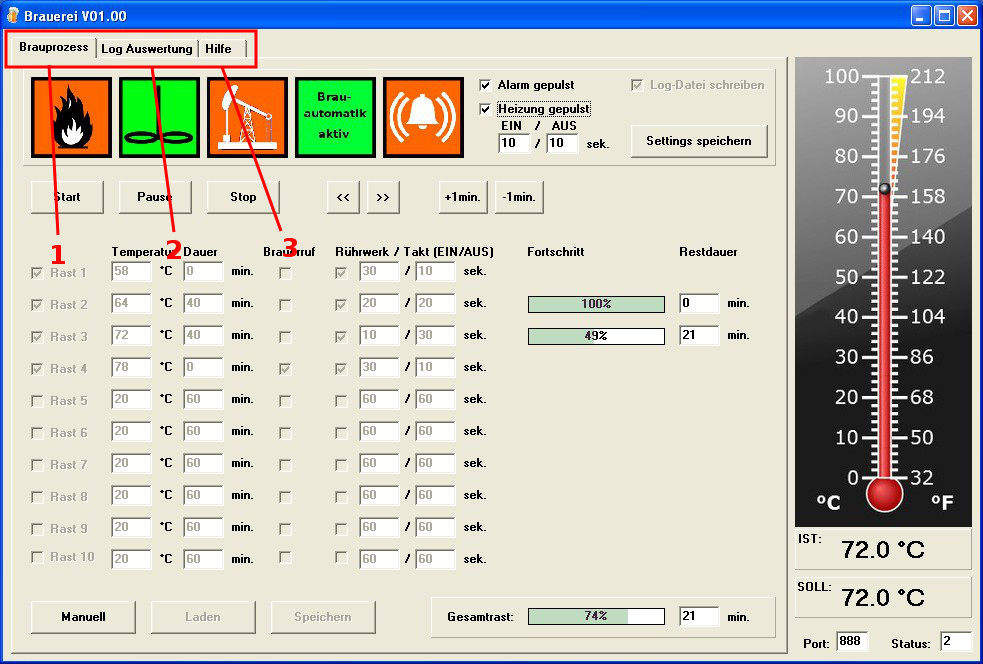
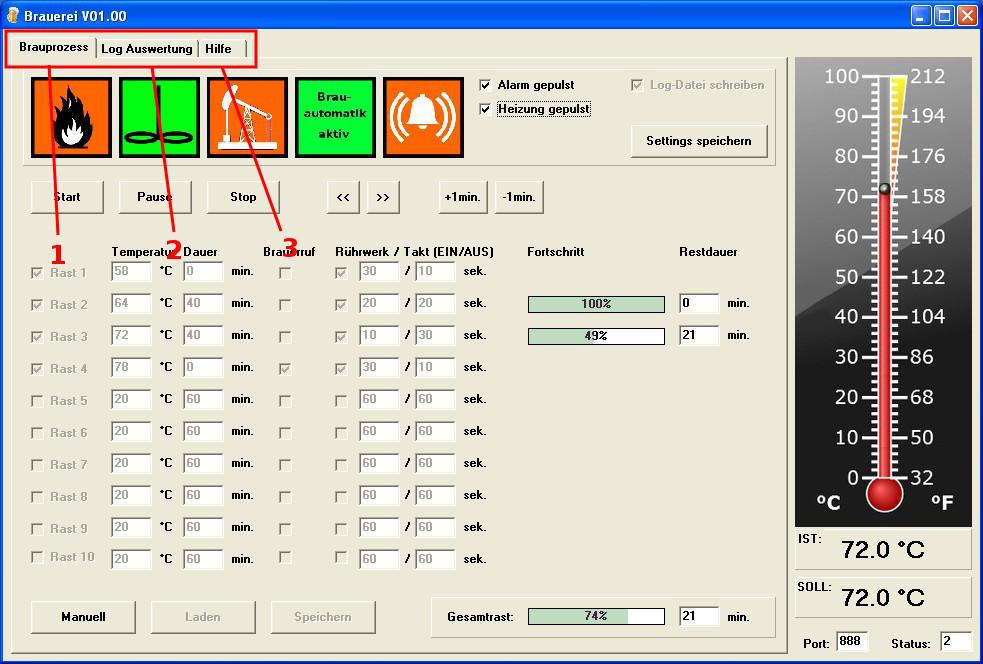
Help aktuallisiert

diff --git a/Brauerei/Help/Log.html b/Brauerei/Help/Log.html
@@ -7,7 +7,9 @@
 	<META NAME="AUTHOR" CONTENT="Andreas Wehrle">
 	<META NAME="CREATED" CONTENT="20140414;21331864">
 	<META NAME="CHANGEDBY" CONTENT="Andreas Wehrle">
-	<META NAME="CHANGED" CONTENT="20140420;12501609">
+	<META NAME="CHANGED" CONTENT="20140429;21221689">
+	<META NAME="CHANGEDBY" CONTENT="Andreas Wehrle">
+	<META NAME="CHANGEDBY" CONTENT="Andreas Wehrle">
 	<META NAME="CHANGEDBY" CONTENT="Andreas Wehrle">
 	<META NAME="CHANGEDBY" CONTENT="Andreas Wehrle">
 	<META NAME="CHANGEDBY" CONTENT="Andreas Wehrle">
@@ -55,12 +57,18 @@ by Emilio &ndash; <A HREF="Help.html">HOME</A></P>
 	<LI><P STYLE="margin-bottom: 0cm; font-weight: normal; text-decoration: none">
 	In gezoomtem Zustand kann mit diesen Buttons in 10 Minuten Schritten
 	durch das Diagramm gefahren werden.</P>
+	<LI><P STYLE="margin-bottom: 0cm; font-weight: normal; text-decoration: none">
+	 AutoUpdqate ist nur bei aktivem Brauprozess verf&uuml;gbar. In
+	eingeschaltetem Zustand wird das Chart alle 30 Sekunden
+	aktuallisiert.</P>
+	<LI><P STYLE="margin-bottom: 0cm; font-weight: normal; text-decoration: none">
+	 Bei Brauprozessen die l&auml;nger als 30 Minuten andauern kann hier
+	in das Diagramm gezoomt werden (Messbereich 30 Minuten).</P>
 </OL>
 <P STYLE="margin-bottom: 0cm"><U><B>Die Log-Dateien:</B></U></P>
-<P STYLE="margin-bottom: 0cm"><SPAN STYLE="text-decoration: none"><SPAN STYLE="font-weight: normal">Eine
-Log-Datei ist eine durch Semikolon getrennte Textdatei mit der Endung
-*.log und sieht wie folgt aus...<BR></SPAN></SPAN><BR>
-</P>
+<P STYLE="margin-bottom: 0cm; font-weight: normal; text-decoration: none">
+Eine Log-Datei ist eine durch Semikolon getrennte Textdatei mit der
+Endung *.log und sieht wie folgt aus...</P>
 <P STYLE="margin-bottom: 0cm"><IMG SRC="2014-04-20_123558.jpg" NAME="Grafik2" ALIGN=LEFT WIDTH=415 HEIGHT=200 BORDER=0><BR CLEAR=LEFT><BR>
 </P>
 <OL>

diff --git a/Brauerei/Help/Setup.html b/Brauerei/Help/Setup.html
@@ -7,7 +7,8 @@
 	<META NAME="AUTHOR" CONTENT="Andreas Wehrle">
 	<META NAME="CREATED" CONTENT="20140414;21331864">
 	<META NAME="CHANGEDBY" CONTENT="Andreas Wehrle">
-	<META NAME="CHANGED" CONTENT="20140421;12254403">
+	<META NAME="CHANGED" CONTENT="20140429;21254921">
+	<META NAME="CHANGEDBY" CONTENT="Andreas Wehrle">
 	<META NAME="CHANGEDBY" CONTENT="Andreas Wehrle">
 	<META NAME="CHANGEDBY" CONTENT="Andreas Wehrle">
 	<META NAME="CHANGEDBY" CONTENT="Andreas Wehrle">
@@ -20,8 +21,8 @@
 	<STYLE TYPE="text/css">
 	<!--
 		@page { margin: 2cm }
-		TD P { margin-bottom: 0.21cm }
 		P { margin-bottom: 0.21cm }
+		TD P { margin-bottom: 0.21cm }
 	-->
 	</STYLE>
 </HEAD>
@@ -35,7 +36,7 @@ f&uuml;r die Steuerung k&ouml;nnen &uuml;ber die Text-Datei
 </SPAN></SPAN></FONT><FONT COLOR="#0000ff"><U><SPAN STYLE="font-weight: normal">C:\Brauerei\Setup\Setup.txt
 </SPAN></U></FONT><FONT COLOR="#000000"><SPAN STYLE="text-decoration: none"><SPAN STYLE="font-weight: normal">konfiguriert
 werden.</SPAN></SPAN></FONT></P>
-<P STYLE="margin-bottom: 0cm"><IMG SRC="2014-04-20_133312.jpg" NAME="Grafik1" ALIGN=LEFT WIDTH=415 HEIGHT=200 BORDER=0><BR CLEAR=LEFT><BR>
+<P STYLE="margin-bottom: 0cm"><IMG SRC="Setup_html_m5c682699.jpg" NAME="Grafik1" ALIGN=LEFT WIDTH=409 HEIGHT=338 BORDER=0><BR CLEAR=LEFT><BR>
 </P>
 <OL>
 	<LI><P STYLE="margin-bottom: 0cm">Port: Adresse des LPT-Ports</P>
@@ -49,6 +50,8 @@ werden.</SPAN></SPAN></FONT></P>
 	f&uuml;r den Alarm ( Tabelle siehe unten )</P>
 	<LI><P STYLE="margin-bottom: 0cm">Taktungstemperatur: Ist die
 	Temperaturdifferenz kleiner dieser Eingabe wird getaktet</P>
+	<LI><P STYLE="margin-bottom: 0cm">Verh&auml;ltnis des Einschalt- zum
+	Ausschalt-Impuls w&auml;hrend der Taktung</P>
 </OL>
 <TABLE WIDTH=273 BORDER=1 CELLPADDING=4 CELLSPACING=3 STYLE="page-break-inside: avoid">
 	<COL WIDTH=29>

diff --git a/Brauerei/Help/Brauprozess.html b/Brauerei/Help/Brauprozess.html
@@ -7,7 +7,8 @@
 	<META NAME="AUTHOR" CONTENT="Andreas Wehrle">
 	<META NAME="CREATED" CONTENT="20140414;21331864">
 	<META NAME="CHANGEDBY" CONTENT="Andreas Wehrle">
-	<META NAME="CHANGED" CONTENT="20140421;12284829">
+	<META NAME="CHANGED" CONTENT="20140429;21105159">
+	<META NAME="CHANGEDBY" CONTENT="Andreas Wehrle">
 	<META NAME="CHANGEDBY" CONTENT="Andreas Wehrle">
 	<META NAME="CHANGEDBY" CONTENT="Andreas Wehrle">
 	<META NAME="CHANGEDBY" CONTENT="Andreas Wehrle">
@@ -53,8 +54,7 @@ Bildschirmdarstellungen:</P>
 	Zieltemperatur mit unter (8) eingestelltem Verh&auml;ltnis
 	gepulst.Die Temperaturdifferenz bei welcher gepulst wird, kann in
 	der Setup.txt eingestellt werden.</P>
-	<LI><P STYLE="margin-bottom: 0cm">Pulseinstellung f&uuml;r
-	Heizungs-Puls-Betrieb (Eingaben 0-100 erlaubt)</P>
+	<LI><P STYLE="margin-bottom: 0cm"></P>
 	<LI><P STYLE="margin-bottom: 0cm">Logdateien w&auml;hrend des
 	Brauprozesses als Dokumentation erstellen <A HREF="Log.html">&larr;
 	Details</A></P>
